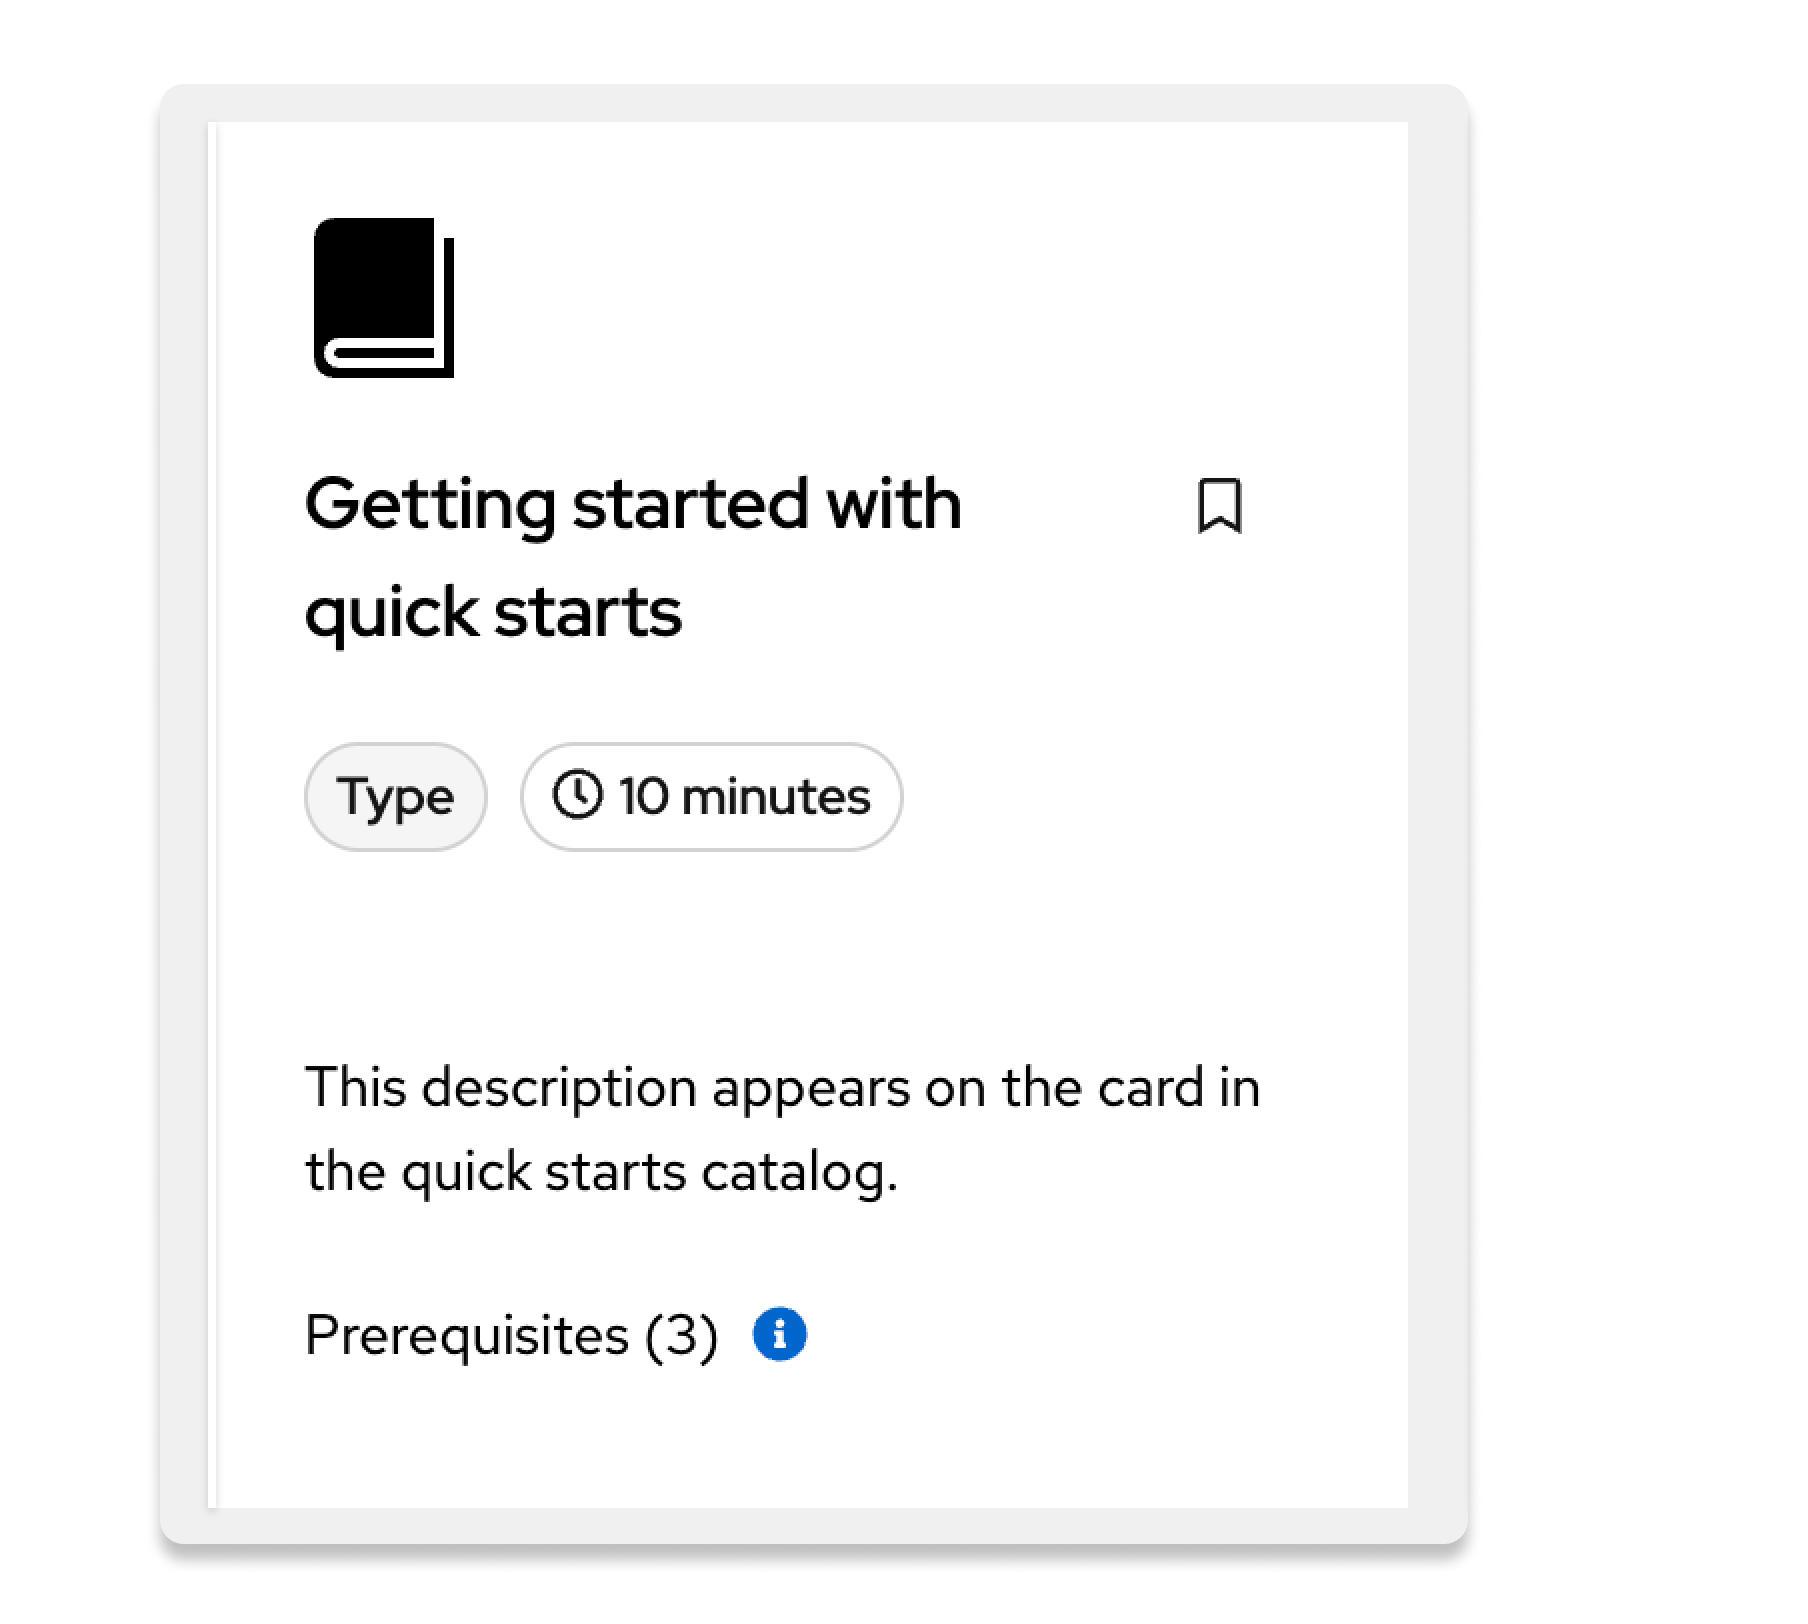
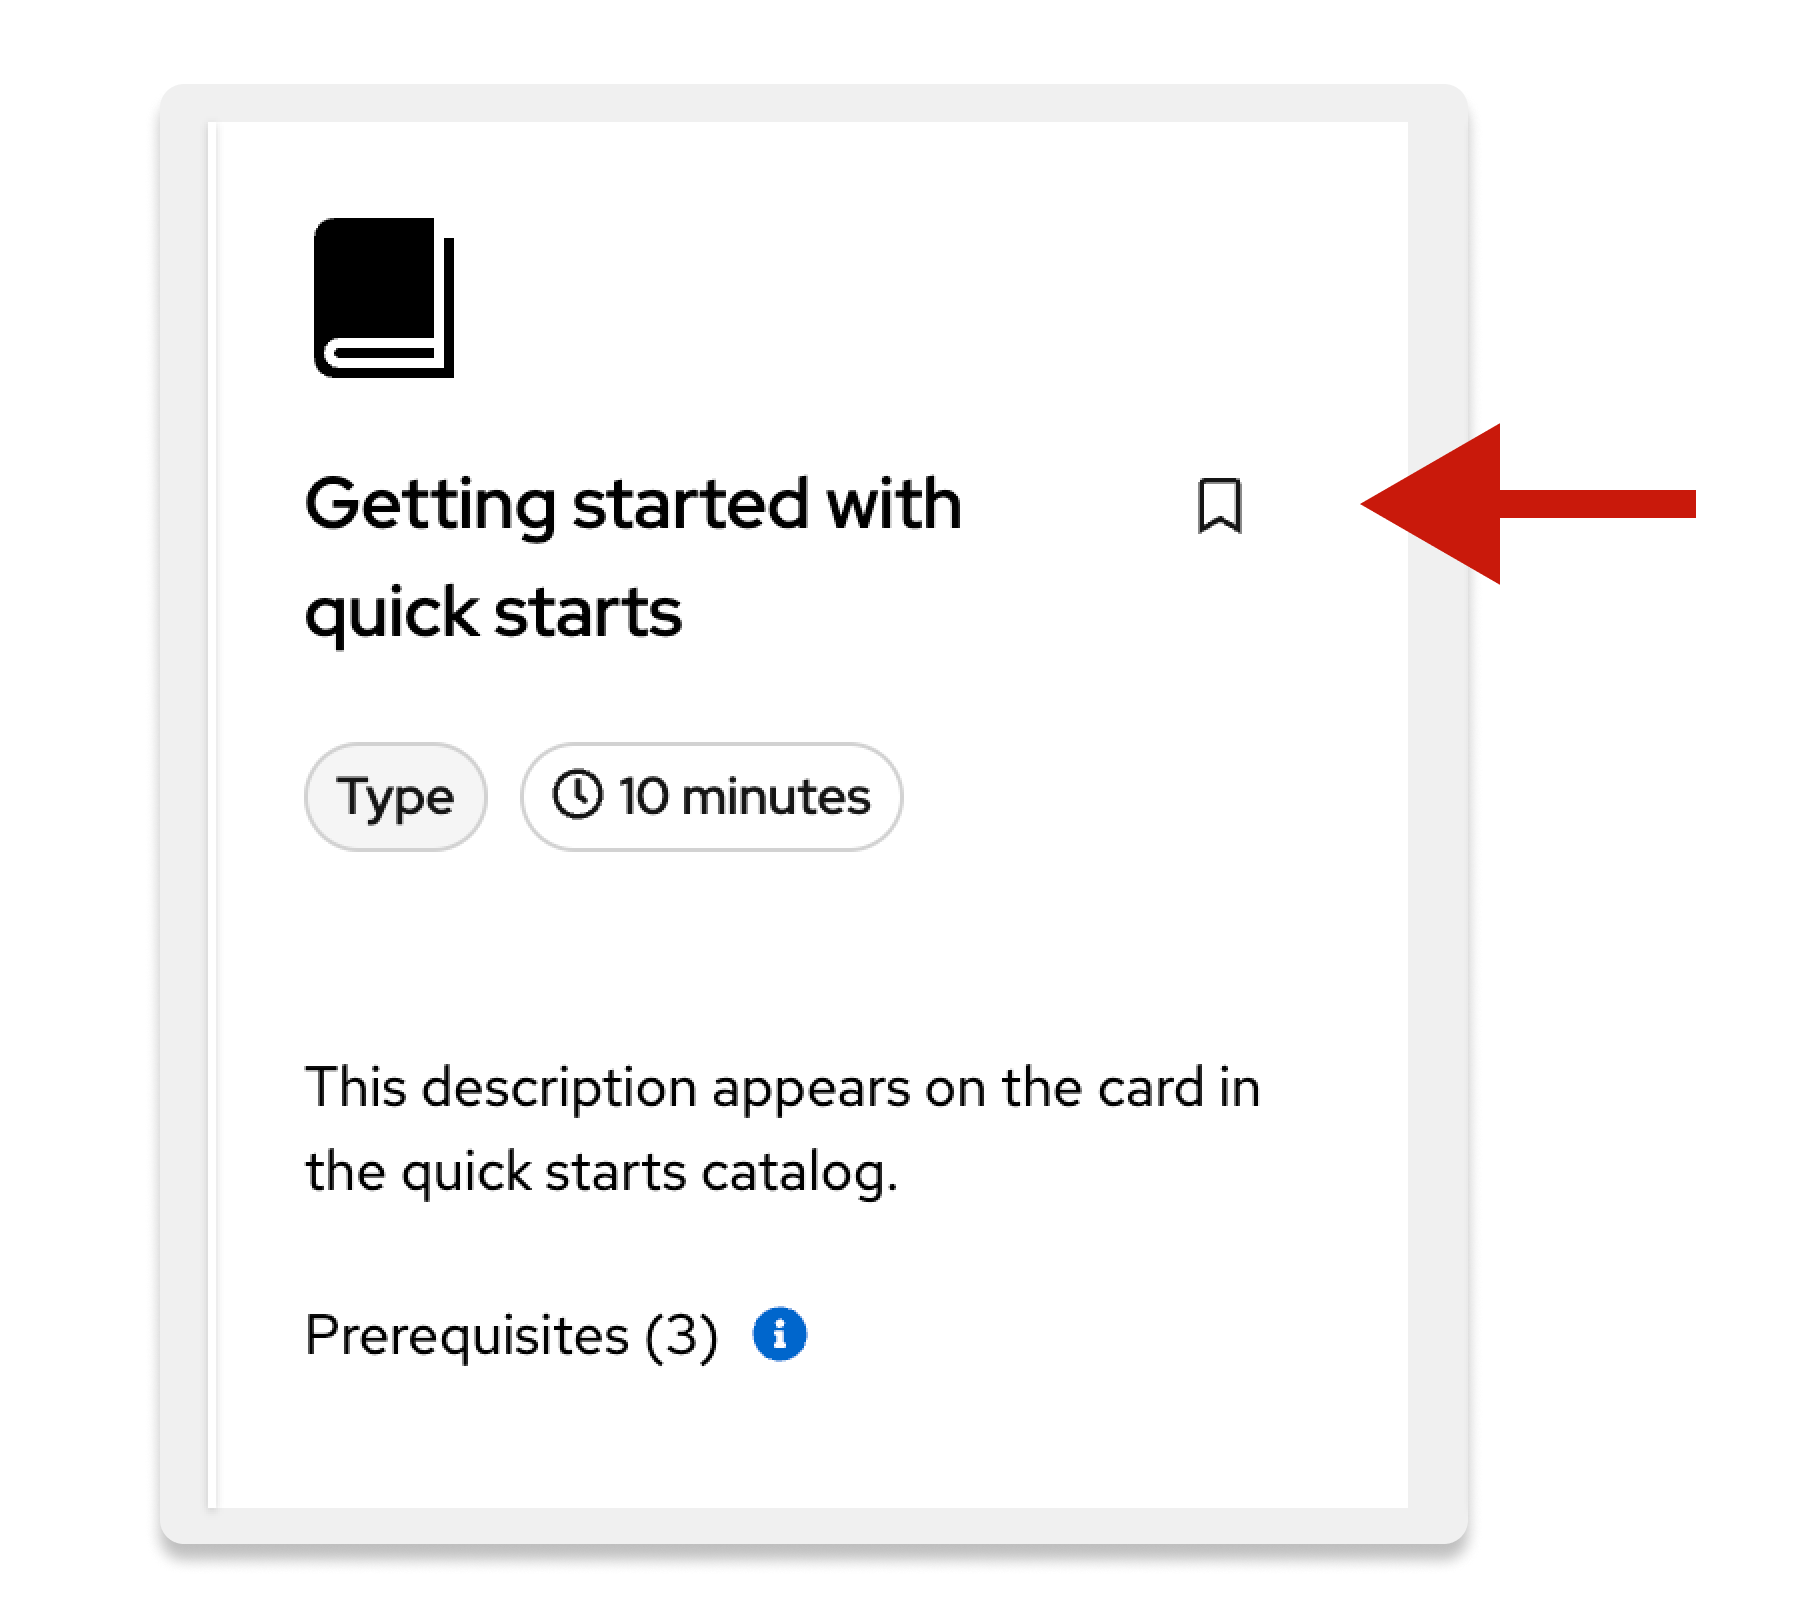
docs(release-highlights): Adds release highlights for 5.3 release.

Changed region(s): [[0.7434, 0.2463, 0.9602, 0.3695]]

diff --git a/packages/documentation-site/patternfly-docs/content/get-started/release-highlights.md b/packages/documentation-site/patternfly-docs/content/get-started/release-highlights.md
@@ -24,44 +24,46 @@ We added new support for a status indicator [within the menu toggle component.](
 <img src="./img/menu-toggle-status.png" alt="Menu toggles with success, warning, and danger status indicators." width="300px"/>
 
 #### Form select component bug fix
-We had a bug that would render the wrong color for menu items if the user was using a placeholder for the select menu
+We found a bug in [the form select component](/components/forms/form-select) that occassionally rendered the wrong color for menu items when a select menu placeholder was used in certain OS/browser combinations. We corrected this issue, so the appropriate color will now be used consistently.
 
 ### Topology pipeline updates
-We added new support to our topology pipelines, so that there is more flexibility in visualization options.
+To enhance and improve the experience using [topology pipelines](/topology/pipelines), we added a few new features.
 
 #### New layouts
-We introduced a new vertical layout that can be used to display pipelines from top to bottom.
+We introduced an new vertical layout that can display pipelines from top to bottom, rather than the previous left-to-right default.
 
 <img src="./img/topology-vertical-pipelines.png" alt="Topology pipeline in a top-to-bottom vertical presentation." width="500px"/>
 
-We added support for groups in pipeline views, which allows you to nest graphs. Groups are supported in both vertical and horizontal layouts.
+We also added support for groups in pipeline views, which allows you to combine and nest graphs. Groups are supported in both vertical and horizontal layouts.
 
 <img src="./img/topology-pipeline-groups.png" alt="Multiple topology pipelines grouped within a pipeline." width="650px"/>
 
-#### Visualization and functionality enhancements
-To enhance your experience with pipelines, we added new support for a couple of additional features. These features include: 
+#### Functional and visual enhancements
+To add more flexibility to topology pipelines, we added support for a couple of new features. These features introduce: 
 - Arrows as directional indicators between pipeline tasks. 
 - The ability to collapse and expand pipeline groups.
 
 <img src="./img/topology-pipeline-enhancements.png" alt="Topology pipeline before and after being collapsed." width="650px"/>
 
 ### Quick starts extension updates
+We made a few updates to [our quick starts extension](/extensions/quick-starts), which lives in [the patternfly/patternfly-quickstarts repository](https://github.com/patternfly/patternfly-quickstarts).
 
 #### Removed AsciiDoc code
-We removed AsciiDoc code, since it was no longer being utilized by any products. We still have support for AsciiDoc, but we recommend using markdown.
+To clean up our codebase and processes, we removed AsciiDoc examples, which were no longer being utilized by any products. We still have support for AsciiDoc, but we generally recommend using Markdown instead.
 
 #### New bookmarks feature
-We added a new feature, which allows card items to be bookmarked. This feature can be used for any action that is passed  to the card/tile.
+We added new functionality to cards in quick starts, which allows users to bookmark cards as needed. 
 
 <img src="./img/quickstarts-bookmark.png" alt="Card with bookmark action icon." width="300px"/>
 
 #### Bug fixes
-To fix some functionality issues, we made some updates to our quick starts extension at [patternfly/patternfly-quickstarts](https://github.com/patternfly/patternfly-quickstarts).
-
-These updates add suppport for clickable cards, active and hover card styling, and links that open in a new tab.  
+We fixed a few issues to enable: 
+- Clickable cards.
+- Active and hover card styles.
+- Links that open in a new tab.
 
 ### Coming soon
-Our v6 alpha will be released soon. Keep an eye on [our Medium publication](https://medium.com/patternfly) and the PatternFly website for updates.
+The release of our v6 alpha will be here soon. Keep an eye on [our Medium publication](https://medium.com/patternfly) and the PatternFly website for updates. We'll be sure to share an announcement as soon as the alpha is live!
 
 <Divider></Divider>
 
